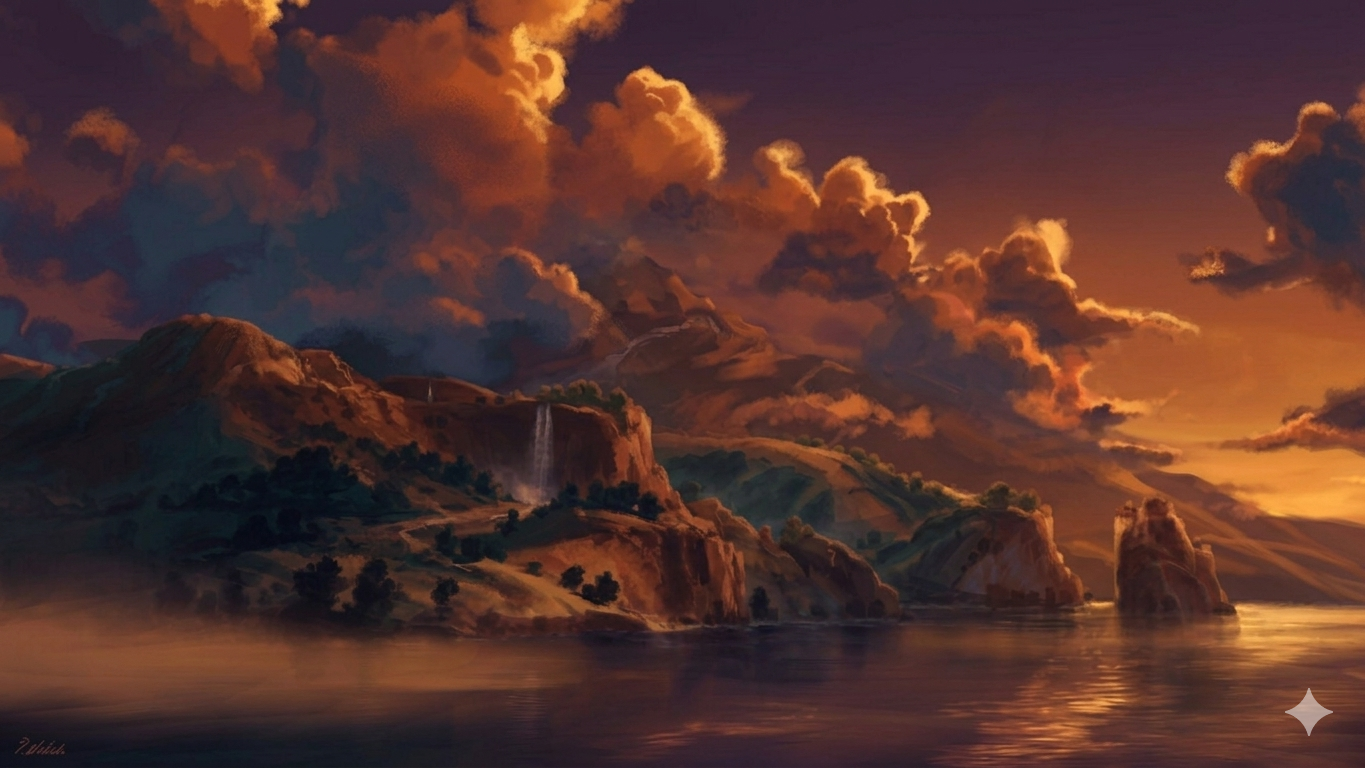
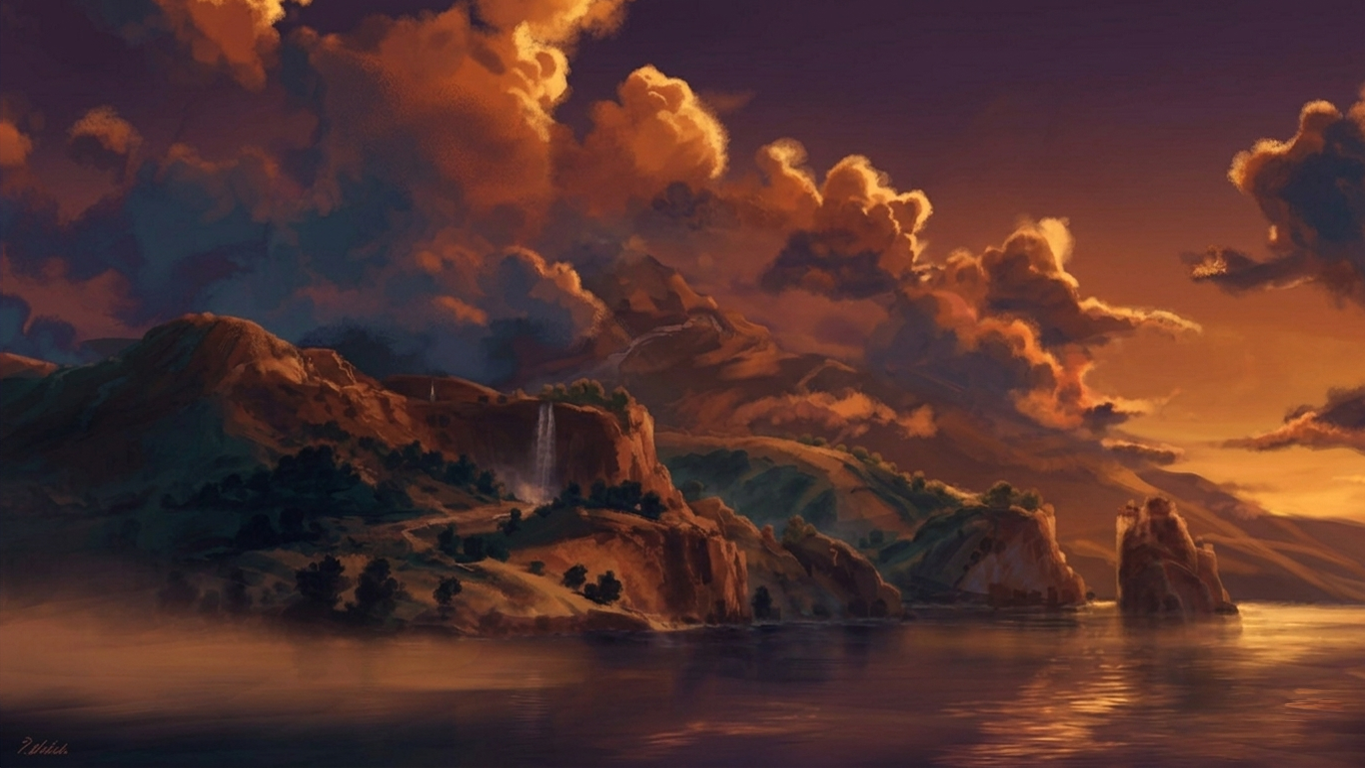
dayPhase adaptive bg

diff --git a/game/index.html b/game/index.html
@@ -36,9 +36,10 @@
 
 
 
-<body onload="MEDIATOR.onload()" class="state-night">
+<body onload="MEDIATOR.onload()" class="state-ship">
 
     <div id="bg-container">
+        <div class="bg-layer ship"></div>
         <div class="bg-layer day"></div>
         <div class="bg-layer sunrise"></div>
         <div class="bg-layer sunset"></div>
@@ -49,7 +50,7 @@
 
 
         <div id="id_load_map" class="box" style="padding-bottom: 5mm;">
-            <h3 class="row smaller">
+            <h3 id="settings-headline-map" class="row smaller">
                 MAP
             </h3> 
             <div class="row">
@@ -58,39 +59,36 @@
         </div>
 
         <div id="" class="box" style="padding-bottom: 5mm;">
-            <h3 class="row smaller">
+            <h3 id="settings-headline-time" class="row smaller">
                 TIME
             </h3> 
-            <h3 class="row"> Play with realistic time? </h3>
+            <h3 id="settings-prompt-realtime" class="row"> Play with realistic time? </h3>
             <input class="row" type="checkbox" id="realTime" name="realTime" value="realTime">
-            <h3 class="row"> Play with start date offset? </h3>
+            <h3 id="settings-prompt-startdate" class="row"> Play with start date offset? </h3>
             <div class="row smaller">
-                <input class="column three" type="number" value="0" id="id_date_offset_w" name="DATE_OFFSET_W" min="0" max="47" />
-                <h5 class="column three">Weeks and</h5>
-                <input class="column three" type="number" value="0" id="id_date_offset_d" name="DATE_OFFSET_D" min="0" max="6" />
-                <h5 class="column three">Days</h5>
+                <input class="column four offset-by-four" type="date" value="1018-07-22" id="startdate" name="STARTDATE" min="1018-01-01" max="2018-12-31" />
             </div>
         </div>
 
         <div id="id_load_weather" class="box" style="padding-bottom: 5mm;">
-            <h3 class="row smaller">
+            <h3 id="settings-headline-weather" class="row smaller">
                 WEATHER
             </h3> 
         </div>
 
         <div id="id_load_events" class="box" style="padding-bottom: 5mm;">
-            <h3 class="row smaller">
+            <h3 id="settings-headline-events" class="row smaller">
                 EVENTS
             </h3> 
         </div>
 
         <div class="box" style="padding-bottom: 5mm;">
-            <h3 class="row"> Play with CW Events? </h3>
+            <h3 id="settings-prompt-cw" class="row"> Play with CW Events? </h3>
             <input class="row" type="checkbox" id="CW" name="CW" value="CW" checked="checked">
         </div>
 
         <div class="box" onclick="MEDIATOR.start()">
-            <h3 class="row smaller">
+            <h3 id="settings-prompt-start" class="row smaller">
                 START
             </h3> 
         </div>

diff --git a/game/index.css b/game/index.css
@@ -46,12 +46,14 @@ body {
 }
 
 /* Assign the respective image assets */
-.bg-layer.day     { background-image: url('./img/bg_island_day.jpg'); }
+.bg-layer.ship    { background-image: url('./img/bg_ship.jpg'); }
+.bg-layer.day     { background-image: url('./img/bg_island_day.png'); }
 .bg-layer.sunrise { background-image: url('./img/bg_island_sunrise.png'); }
 .bg-layer.sunset  { background-image: url('./img/bg_island_sunset.png'); }
 .bg-layer.night   { background-image: url('./img/bg_island_night.png'); }
 
 /* State Controls: When a layer GAINS its active class */
+body.state-ship .bg-layer.ship,
 body.state-day .bg-layer.day,
 body.state-sunrise .bg-layer.sunrise,
 body.state-sunset .bg-layer.sunset,

diff --git a/game/js/GCdisplay.js b/game/js/GCdisplay.js
@@ -109,10 +109,10 @@ class GCdisplay { static Log = new Log("Display", "b");
     }
 
     static update_bg_onDayPhase(dayPhase) {
-        const bgStates = ['state-sunrise', 'state-day', 'state-sunset', 'state-night']
+        const bgStates = ['state-sunrise', 'state-day', 'state-sunset', 'state-night'];
         const body = document.body;
         // Remove any existing time-of-day classes
-        body.classList.remove('state-day', 'state-sunrise', 'state-sunset', 'state-night');
+        body.classList.remove('state-day', 'state-sunrise', 'state-sunset', 'state-night', 'state-ship');
         // Add the new target state class
         body.classList.add(bgStates[dayPhase]);
     }